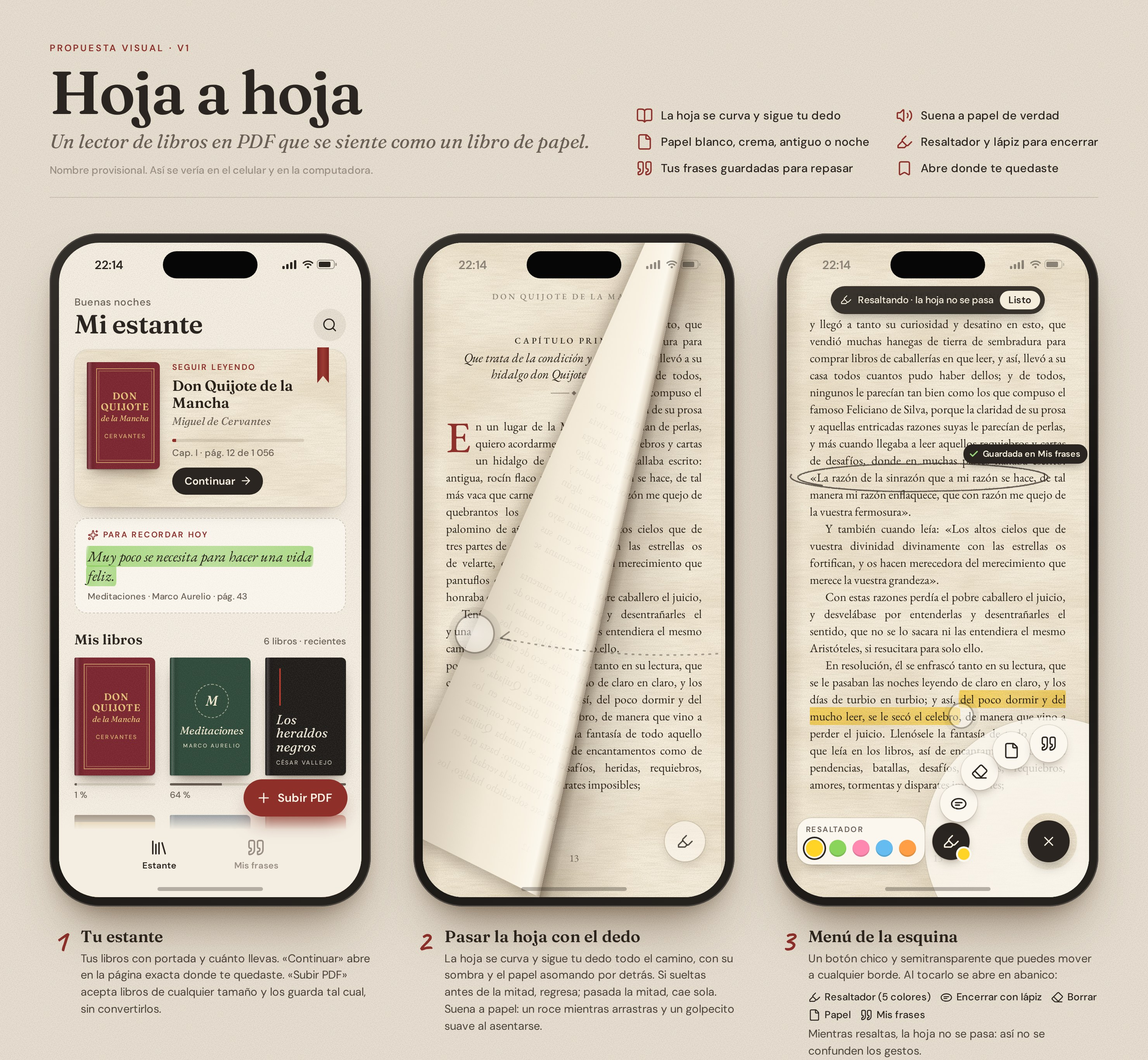
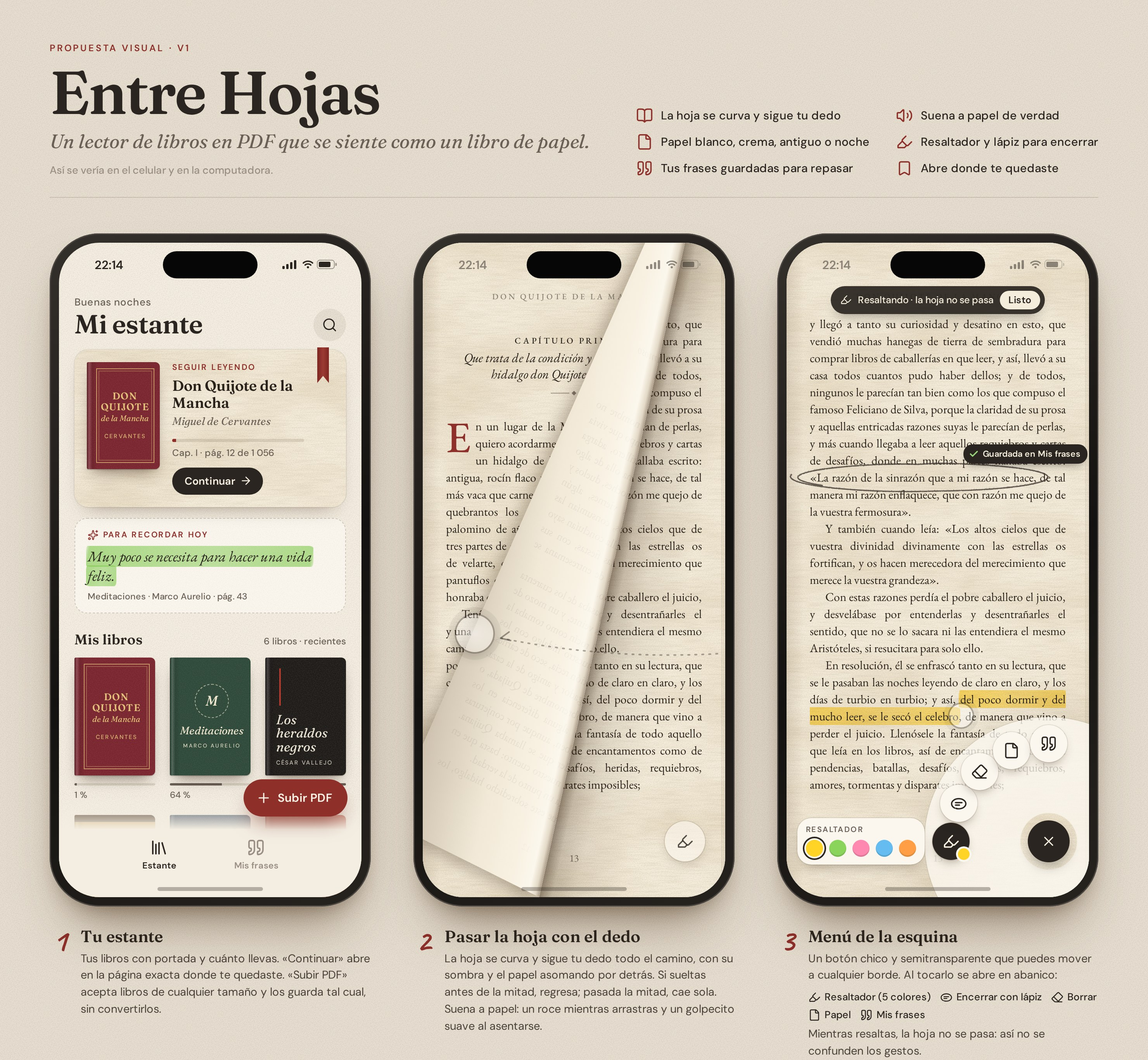
La app se llama «Entre Hojas»
Nombre definitivo en CLAUDE.md, README y la maqueta; imágenes regeneradas.

Claude-Session: https://claude.ai/code/session_01VKBC1dP2ieXZZSmpYoPEdq

Changed region(s): [[0.0622, 0.0622, 0.3419, 0.1244], [0.1554, 0.1554, 0.1865, 0.1865]]

diff --git a/diseno/propuesta-visual.html b/diseno/propuesta-visual.html
@@ -3,7 +3,7 @@
 <head>
 <meta charset="utf-8">
 <meta name="viewport" content="width=1480">
-<title>Hoja a hoja · propuesta visual</title>
+<title>Entre Hojas · propuesta visual</title>
 <!-- Maqueta estática del lector de libros en PDF (no es la app todavía).
      Se convierte en imágenes con: node diseno/render.cjs -->
 <script src="iconos.js"></script>
@@ -366,9 +366,9 @@ figcaption p{font:400 14.5px/1.5 "DM Sans";margin:0;color:#4a4239}
   <header class="cab">
     <div>
       <div class="kicker">Propuesta visual · v1</div>
-      <h1>Hoja a hoja</h1>
+      <h1>Entre Hojas</h1>
       <p class="lema">Un lector de libros en PDF que se siente como un libro de papel.</p>
-      <p class="nota">Nombre provisional. Así se vería en el celular y en la computadora.</p>
+      <p class="nota">Así se vería en el celular y en la computadora.</p>
     </div>
     <ul class="rasgos">
       <li><i data-i="book-open"></i>La hoja se curva y sigue tu dedo</li>
@@ -584,7 +584,7 @@ figcaption p{font:400 14.5px/1.5 "DM Sans";margin:0;color:#4a4239}
 <section class="hoja-pres h3" id="hoja3">
   <div class="fila-pc">
     <div class="pc">
-      <div class="pc-barra"><span class="luces"><i></i><i></i><i></i></span><span class="pc-titulo">Hoja a hoja — Don Quijote de la Mancha</span></div>
+      <div class="pc-barra"><span class="luces"><i></i><i></i><i></i></span><span class="pc-titulo">Entre Hojas — Don Quijote de la Mancha</span></div>
       <div class="pc-cuerpo">
         <div class="pc-lectura">
           <div class="pc-top">

diff --git a/CLAUDE.md b/CLAUDE.md
@@ -1,6 +1,6 @@
-# Hoja a hoja — lector de libros en PDF
+# Entre Hojas — lector de libros en PDF
 
-> «Hoja a hoja» es un nombre provisional.
+> El nombre de la app es «Entre Hojas»: como lo que uno guarda entre las páginas de un libro (una flor seca, un papelito); aquí, mis frases.
 
 ## Qué quiero
 Quiero volver a leer mis libros como si fueran de papel, pero desde PDFs. Es una app donde subo un libro en PDF, del peso que sea, y lo leo pasando las hojas con el dedo, con la sensación y el sonido de un libro de verdad.

diff --git a/README.md b/README.md
@@ -1,4 +1,4 @@
-# Hoja a hoja — lector de libros en PDF
+# Entre Hojas — lector de libros en PDF
 
 Un lector de libros en PDF que se siente como un libro de papel: la hoja se curva y sigue tu dedo, suena a papel,
 puedes elegir el tipo de papel (blanco, crema, antiguo o noche), resaltar o encerrar frases a lápiz y guardarlas en
